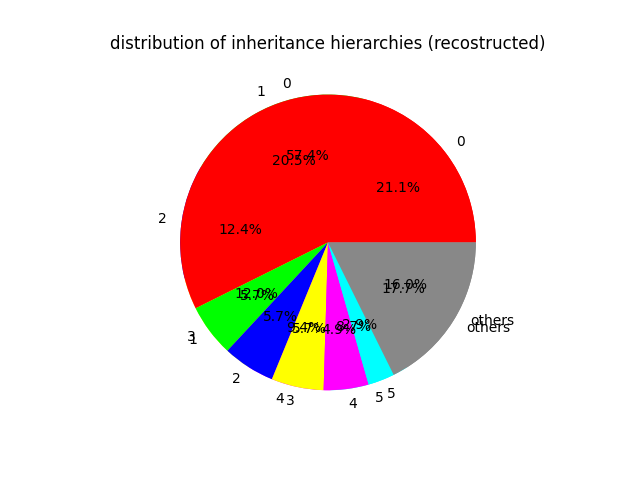
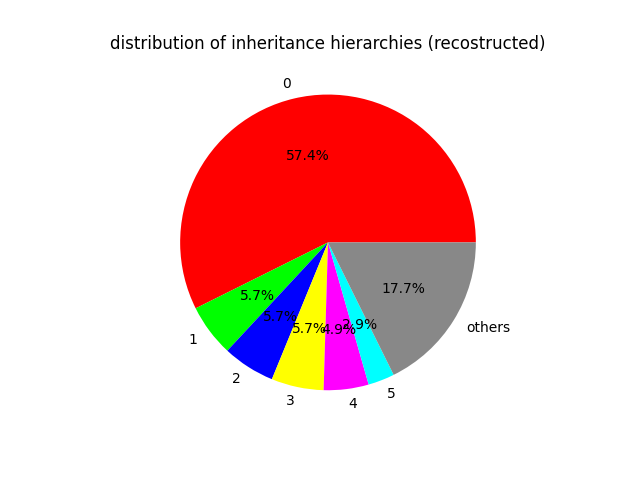
interpretations of the results

diff --git a/src/semantic_analysis.py b/src/semantic_analysis.py
@@ -221,10 +221,11 @@ def reconstructed_signature_structural_analysis():
 			codes[code]+=1
 		except:
 			pass
-	signature_structural_analysis_aux(codes,"distribution of inheritance hierarchies (recostructed)")
+	signature_structural_analysis_aux(codes,"distribution of inheritance hierarchies (reconstructed)")
 
 
 def signature_structural_analysis_aux(codes,title):
+	plt.clf()
 	colorlist = ["#ff0000","#00ff00","#0000ff","#ffff00","#ff00ff","#00ffff"]
 	N = len(colorlist)
 	codelist_full = list(codes.keys())
@@ -258,7 +259,6 @@ def signature_structural_analysis_aux(codes,title):
 	command = "dot -Tsvg \""+path+"\" -o \""+path.replace(".dot",".svg")+"\""
 	os.system(command)
 		
-corpus_signature_structural_analysis()
-reconstructed_signature_structural_analysis()
+
 
 

diff --git a/src/main.py b/src/main.py
@@ -8,4 +8,7 @@ from text_analysis import *
 
 ## reconstruction_analysis()
 
-correlation_analysis()
+# correlation_analysis()
+
+# corpus_signature_structural_analysis()
+# reconstructed_signature_structural_analysis()

diff --git a/README.md b/README.md
@@ -402,9 +402,21 @@ for each model m:
 	table[e]+=1
 ```
 
+When the data is analysed:
+
+![](./distribution%20of%20inheritance%20hierarchies%20(original).png)
+
+![](./out/distribution%20of%20inheritance%20hierarchies%20(original).svg)
+
+The legend shows the graph representations of the inheritance structures, after the introduction of a root node for the forest. The original corpus consists of a large number of models with no ingeritance at all (as seen in the graphs with a depth of 1), with a few more complex structures occuring often (as seen in the graphs with a depth greater than 1).
+
+![](./distribution%20of%20inheritance%20hierarchies%20(recostructed).png)
+
+![](./out/distribution%20of%20inheritance%20hierarchies%20(recostructed).svg)
+
+In comparison, the models generated by the LLM consist mainly of simple inheritance structures, which suggests that the generated code often consists of signatures that do not inherit from other signatures. This could either be due to some inherent bias against inheritance when writing models, or due to the inheritance relations not being captured accurately in the summaries from which the models are reconstructed.
 
 
-- inheritace structure
 - correlation of percentage of matching signature names and the length of the model
 
 - to do:
